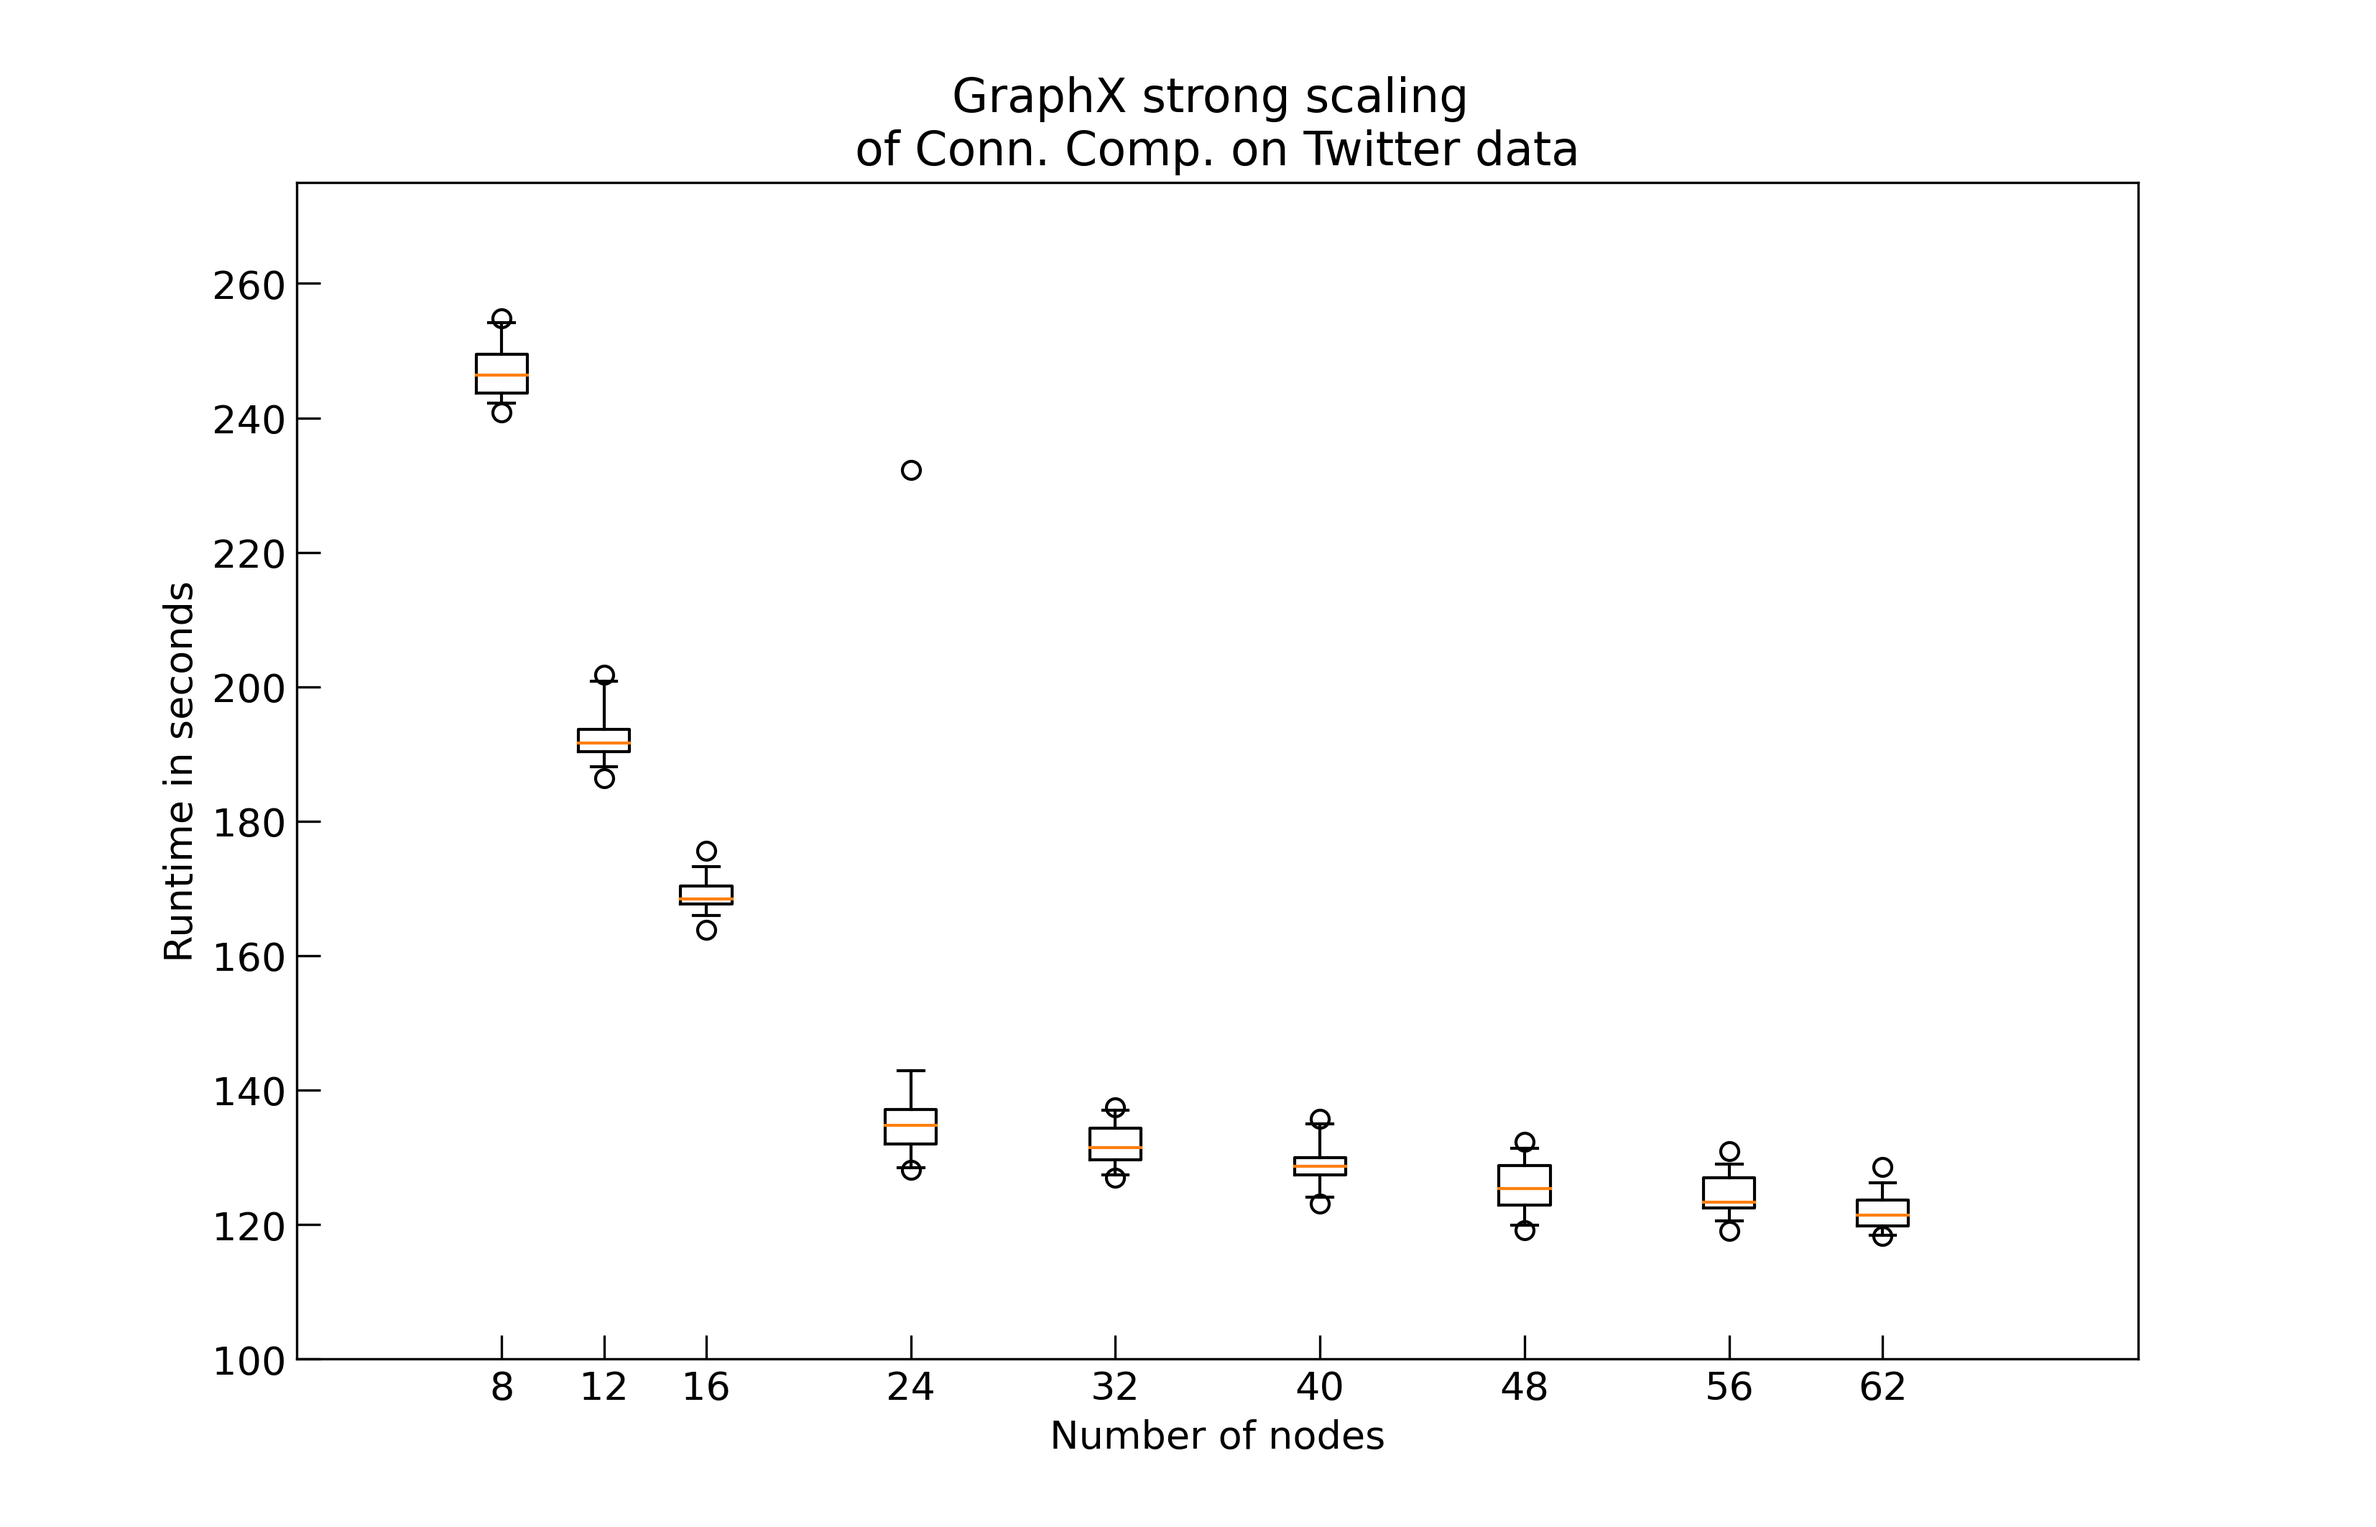
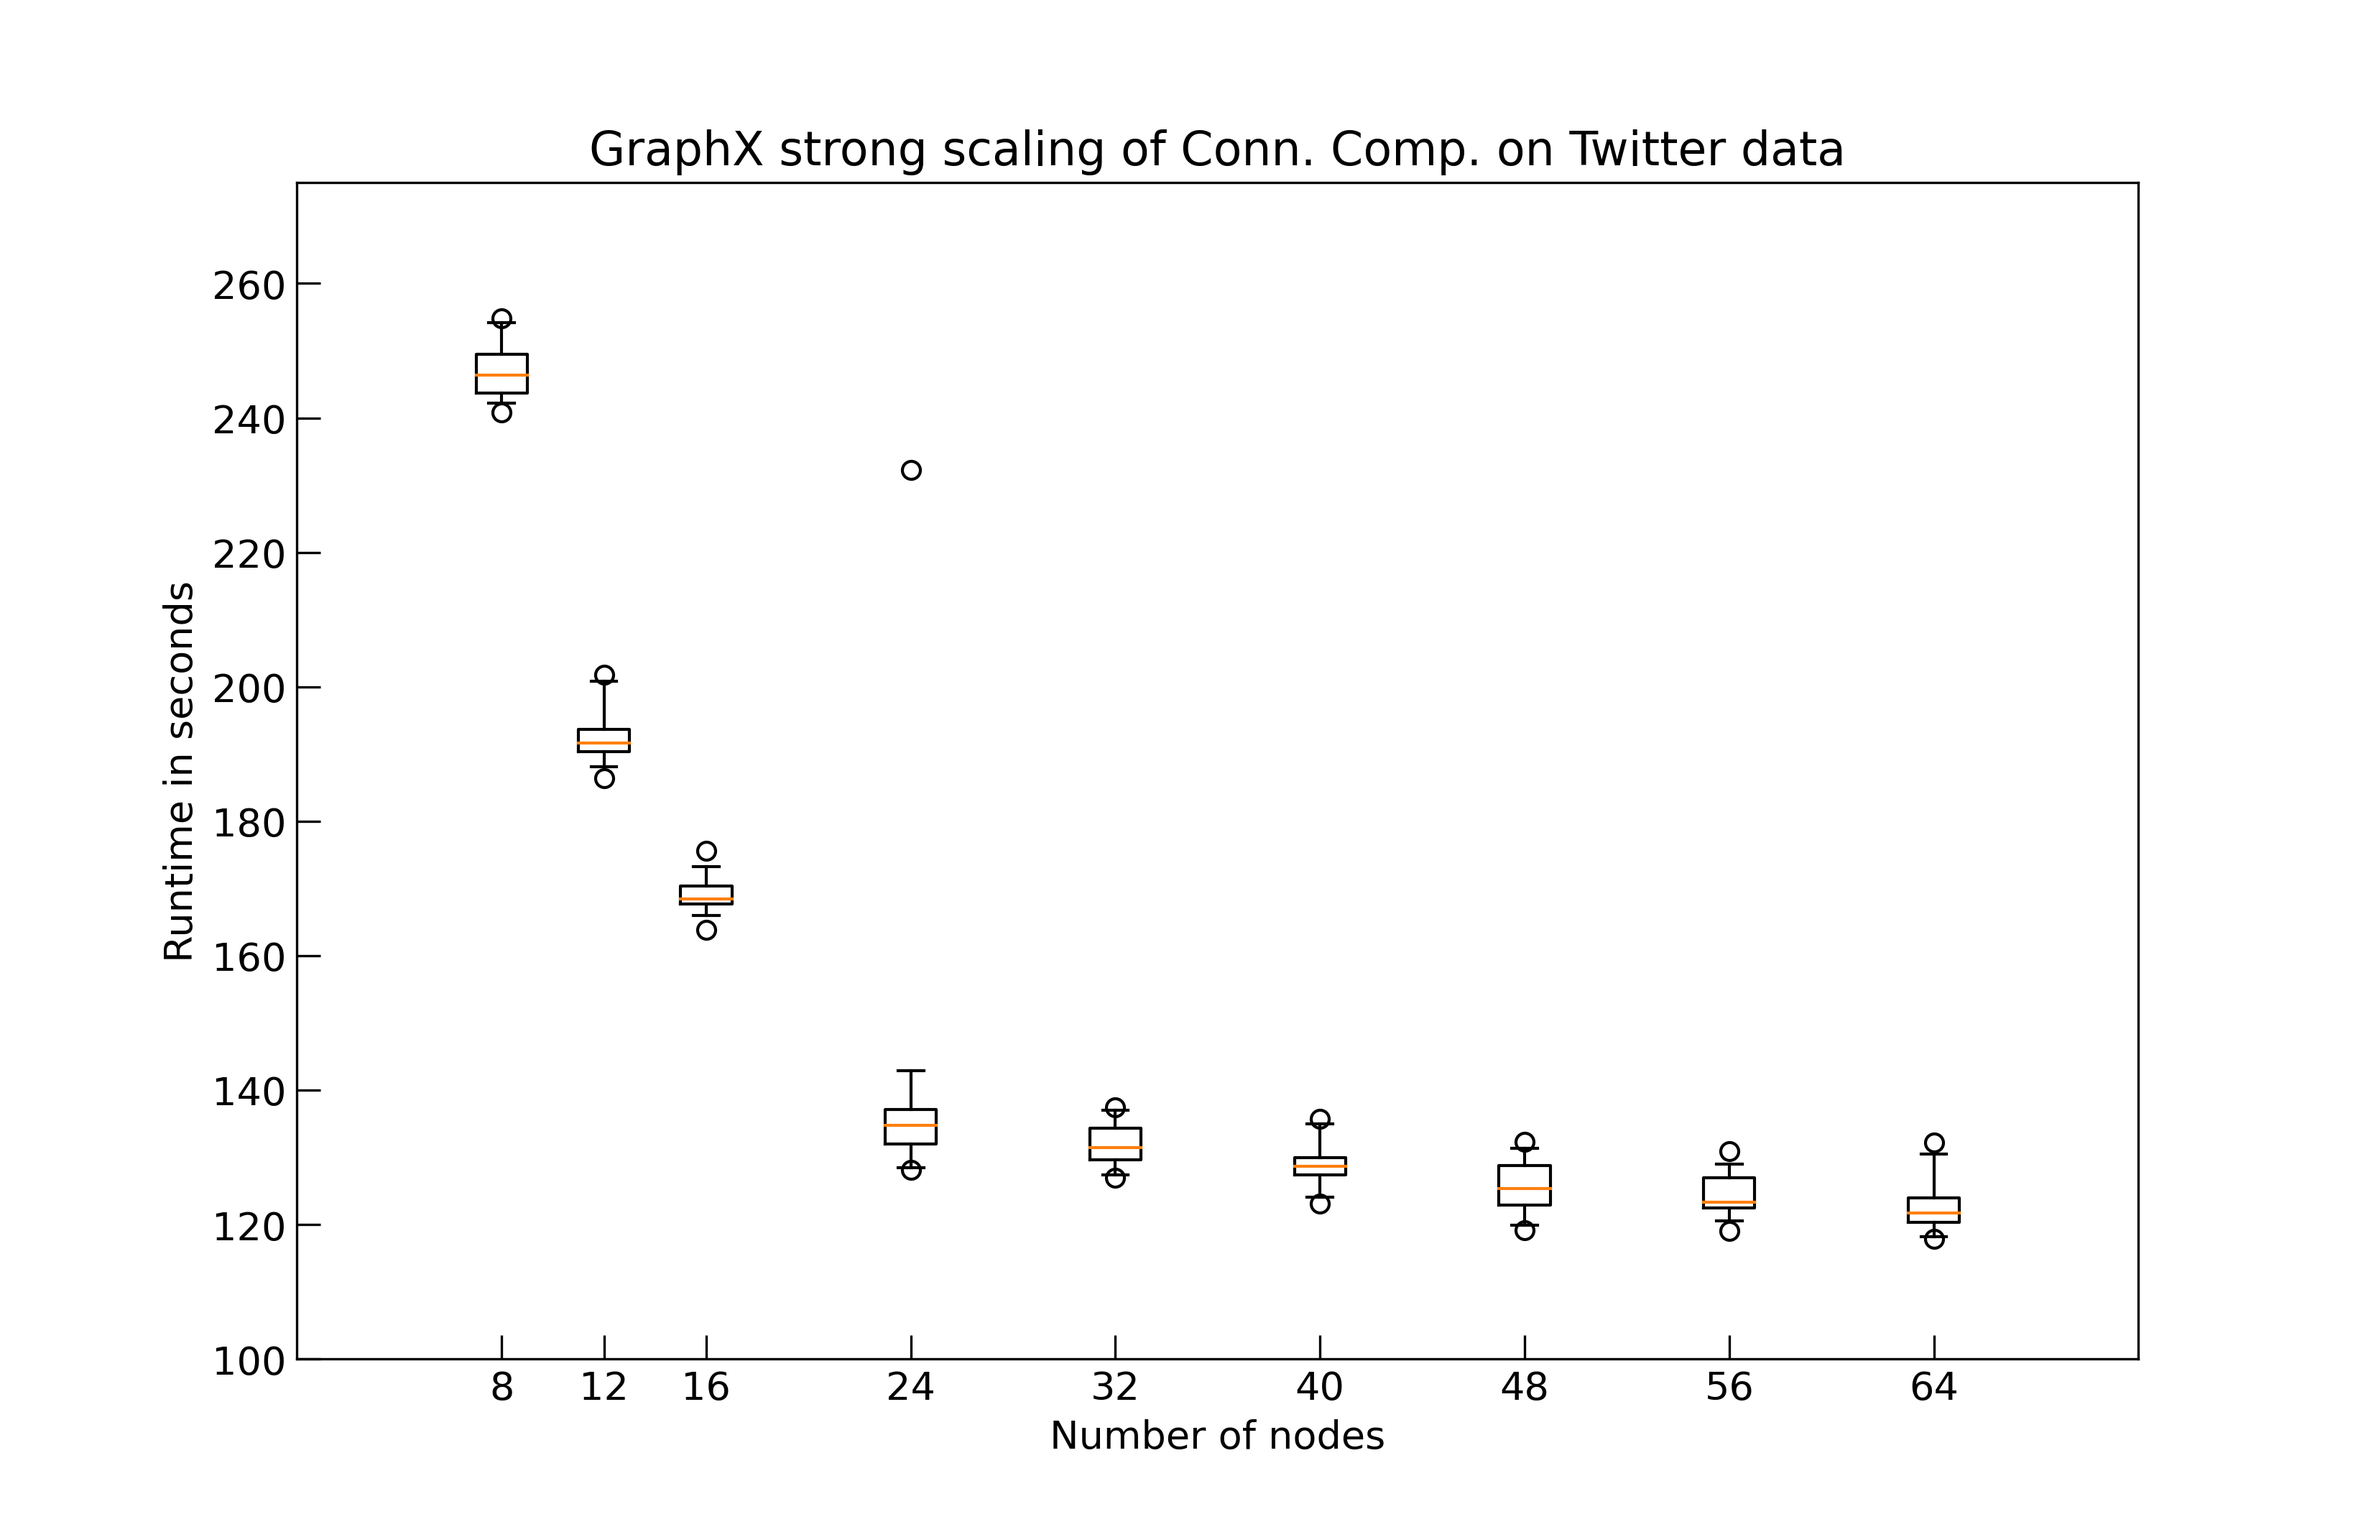
not working: limit gx_sc to reprod. data set

Changed region(s): [[0.2492, 0.0311, 0.7787, 0.1242], [0.7787, 0.7765, 0.8409, 0.8075], [0.7787, 0.9007, 0.8098, 0.9318]]

diff --git a/timings/data_analysis.py b/timings/data_analysis.py
@@ -26,7 +26,7 @@ scaling_files = [
     "graphx/clean_41.txt",
     "graphx/clean_49.txt",
     "graphx/clean_57.txt",
-    "graphx/clean_63.txt"
+    "graphx/clean_65.txt"
 ]
 
 li = []
@@ -119,12 +119,37 @@ ax5.set_ylabel("Runtime in seconds")
 ax5.set_xlabel("Number of nodes")
 ax5.set_xlim([0, 72])
 # ax5.set_xscale('log', basex=2)
-ax5.set_title("GraphX strong scaling \nof Conn. Comp. on Twitter data")
-positions = np.array([8,12,16,24,32,40,48,56,62])
+ax5.set_title("GraphX strong scaling of Conn. Comp. on Twitter data")
+positions = np.array([8,12,16,24,32,40,48,56,64])
 ax5.boxplot(gx_sc, labels=positions, whis=[1,99], positions=positions, widths=2)
 ax5.set_ylim([100,275])
 fig5.set_size_inches(size[0]*2,size[1])
 fig5.savefig("images/graphx_scaling.png", dpi=300)
+# plt.show()
+
+print(gx_sc)
+
+gx_sc.drop(["graphx/clean_13.txt",
+    "graphx/clean_25.txt",
+    "graphx/clean_41.txt",
+    "graphx/clean_57.txt"], index=1)
+
+print(gx_sc.loc[:5])
+sys.exit()
+# Scaling boxplot
+fig6 = plt.figure()
+ax6 = fig6.add_subplot(111)
+ax6.tick_params(axis='both', direction='in', length=8)
+ax6.set_ylabel("Runtime in seconds")
+ax6.set_xlabel("Number of nodes")
+ax6.set_xlim([0, 72])
+# ax5.set_xscale('log', basex=2)
+ax6.set_title("GraphX strong scaling of Conn. Comp. on Twitter data (replication)")
+positions = np.array([8,16,32,48,64])
+ax6.plot(gx_sc.loc[:5], labels=positions, whis=[1,99], positions=positions, widths=2)
+ax6.set_ylim([100,275])
+fig6.set_size_inches(size[0]*2,size[1])
+fig6.savefig("images/graphx_scaling.png", dpi=300)
 # plt.show()
 
 sys.exit()
